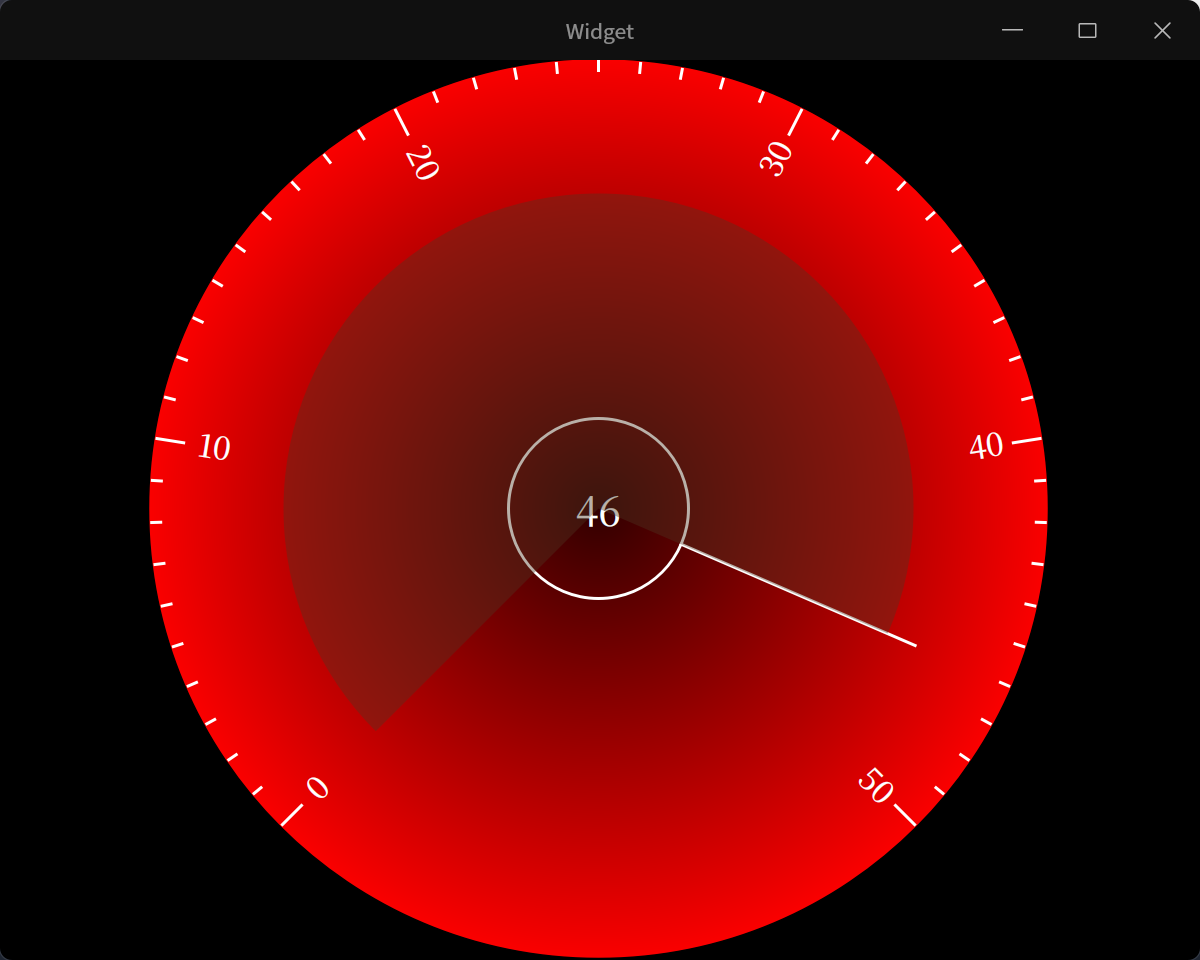
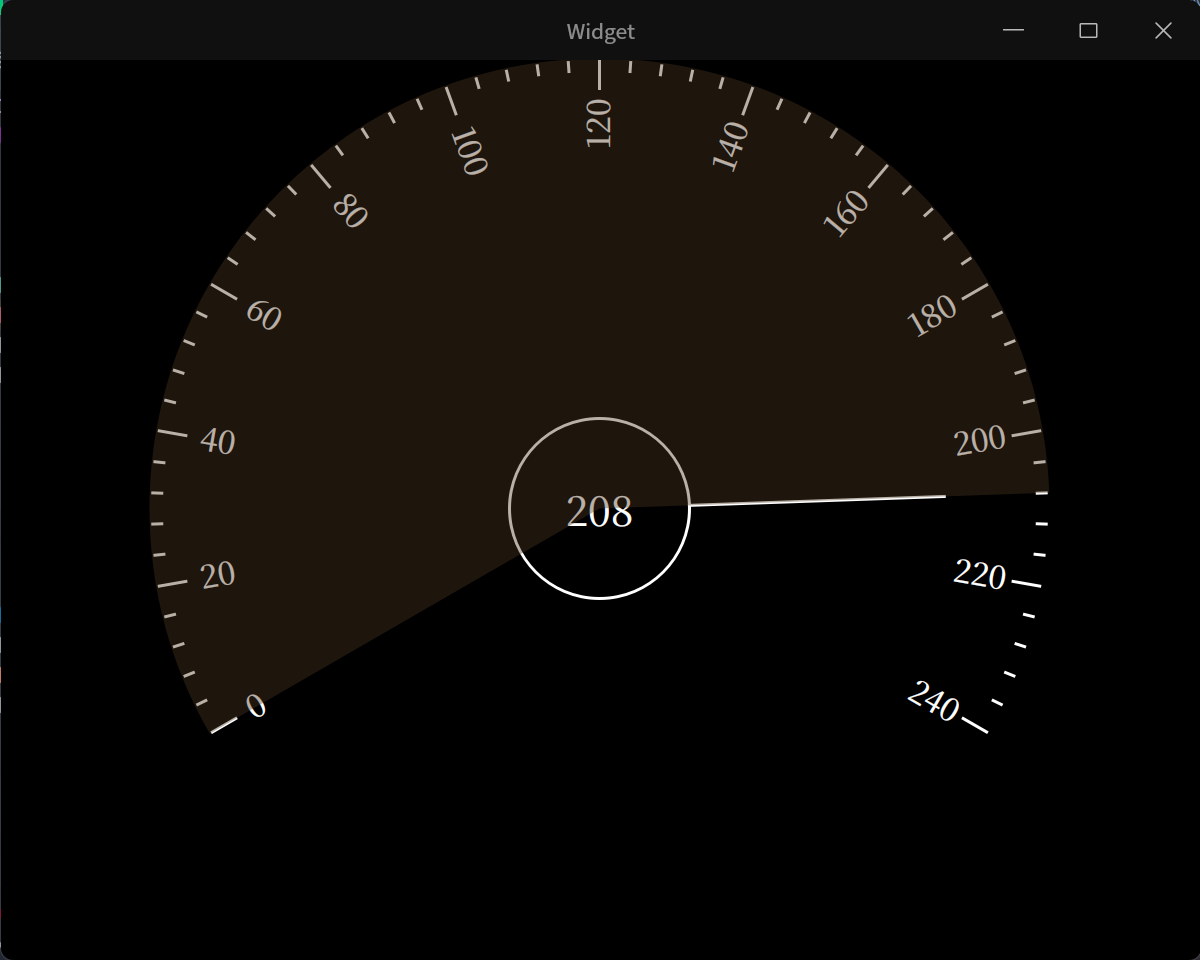
feat(dash_board): 优化仪表盘刻度及旋转逻辑 - 美化仪表盘

diff --git a/dash_board/ui/widget.cpp b/dash_board/ui/widget.cpp
@@ -11,10 +11,10 @@
 Widget::Widget(QWidget* parent) : QWidget(parent), ui(new Ui::Widget) {
     ui->setupUi(this);
     _timer = new QTimer(this);
-    connect(_timer, &QTimer::timeout, this, [=] {
+    connect(_timer, &QTimer::timeout, [this] {
         if (!_pointer_rotation) {
             _current_time++;
-            if (_current_time >= 51) {
+            if (_current_time >= (_scale + 1)) {
                 _pointer_rotation = true;
             }
         }
@@ -36,6 +36,9 @@ Widget::paintEvent(QPaintEvent* event) {
     QPainter painter(this);
     painter.setRenderHint(QPainter::Antialiasing, true);
 
+    constexpr int rotation_angle{ 150 };
+    constexpr double scale_angle{ 240.0 };
+
     /// 1. 绘制背景
     painter.setBrush(Qt::black);
     painter.drawRect(rect());
@@ -43,10 +46,6 @@ Widget::paintEvent(QPaintEvent* event) {
     /// 2. 绘制圆形
     painter.translate(rect().center());
     /// 2.1 绘制渐变
-    QRadialGradient radial_gradient(0, 0, static_cast<int>(height() / 2));
-    radial_gradient.setColorAt(0.0, QColor(255, 0, 0, 50)); /* 中心颜色 */
-    radial_gradient.setColorAt(1.0, QColor(255, 0, 0, 250)); /* 外围颜色 */
-    painter.setBrush(radial_gradient);
     /// 2.2 绘制大圆
     painter.drawEllipse(QPoint(0, 0), height() / 2, height() / 2);
     painter.setBrush(Qt::NoBrush);
@@ -56,23 +55,24 @@ Widget::paintEvent(QPaintEvent* event) {
     /// 2.4 绘制当前值
     painter.setFont(QFont("Noto Serif CJK SC", 20));
     painter.drawText(QRect(-60, -60, 120, 120), Qt::AlignCenter,
-                     QString::number(_current_time));
+                     QString::number(_current_time * 4));
 
     /// 3. 绘制刻度
     /// 3.1 算出一个刻度需要旋转的角度
-    constexpr double angle = 270.0 / 50;
+    constexpr double angle = scale_angle / _scale;
     /// 3.2 设置低一个刻度的位置
     painter.save(); /* 保存当前状态 */
-    painter.rotate(135);
+    painter.rotate(rotation_angle);
     painter.setFont(QFont("Noto Serif CJK SC", 16));
-    for (int i = 0; i <= 50; ++i) {
-        if (i % 10 == 0) { /* 绘制长刻度线及字符*/
-            if (135 + angle * i < 270) {
+    for (int i = 0; i <= _scale; ++i) {
+        if (i % 5 == 0) { /* 绘制长刻度线及字符*/
+            if (rotation_angle + angle * i < 270) { /* 左侧字符翻转 */
                 painter.rotate(180);
-                painter.drawText(-(height() / 2 - 30), 7, QString::number(i));
+                painter.drawText(-(height() / 2 - 30), 7,
+                                 QString::number(i * 4));
                 painter.rotate(-180);
             } else {
-                painter.drawText(height() / 2 - 50, 7, QString::number(i));
+                painter.drawText(height() / 2 - 60, 7, QString::number(i * 4));
             }
             painter.drawLine(height() / 2 - 20, 0, height() / 2 - 2, 0);
         } else {
@@ -84,17 +84,16 @@ Widget::paintEvent(QPaintEvent* event) {
     /// 4. 绘制指针
     painter.restore(); /* 恢复之前保存的状态 */
     painter.save();
-    painter.rotate(135 + angle * _current_time);
+    painter.rotate(rotation_angle + angle * _current_time);
     painter.drawLine(60, 0, height() / 2 - 70, 0);
 
     /// 5. 绘制扇形
     painter.restore();
-    const QRect rectangle(-(height() / 2 - 90), -(height() / 2 - 90),
-                          height() - 180, height() - 180);
+    const QRect rectangle(-height() / 2, -height() / 2, height(), height());
     painter.setPen(Qt::NoPen);
     painter.setBrush(QColor(77, 54, 33, 100));
     painter.drawPie(
-            rectangle, (360 - 135) * 16,
+            rectangle, (360 - rotation_angle) * 16,
             static_cast<int>(_current_time * -angle *
                              16));  // angle取扶植，为了使其顺时针方向绘制
 }

diff --git a/dash_board/ui/widget.h b/dash_board/ui/widget.h
@@ -8,9 +8,9 @@
 #ifndef WIDGET_H
 #define WIDGET_H
 
+#include <QPainter>
 #include <QRect>
 #include <QTimer>
-#include <QPainter>
 #include <QWidget>
 
 QT_BEGIN_NAMESPACE
@@ -31,6 +31,7 @@ public:
 private:
     Ui::Widget *ui;
     int _current_time{ 0 };
+    static constexpr int _scale{ 60 };
     QTimer *_timer{};
     bool _pointer_rotation{ false };
 };

diff --git a/radar/ui/widget.cpp b/radar/ui/widget.cpp
@@ -12,7 +12,7 @@
 Widget::Widget(QWidget* parent) : QWidget(parent), ui(new Ui::Widget) {
     ui->setupUi(this);
     _timer = new QTimer(this);
-    connect(_timer, &QTimer::timeout, this, [=] {
+    connect(_timer, &QTimer::timeout, [=] {
         _start_angle += 30;
         if (_start_angle >= 360) {
             _start_angle = 0;
